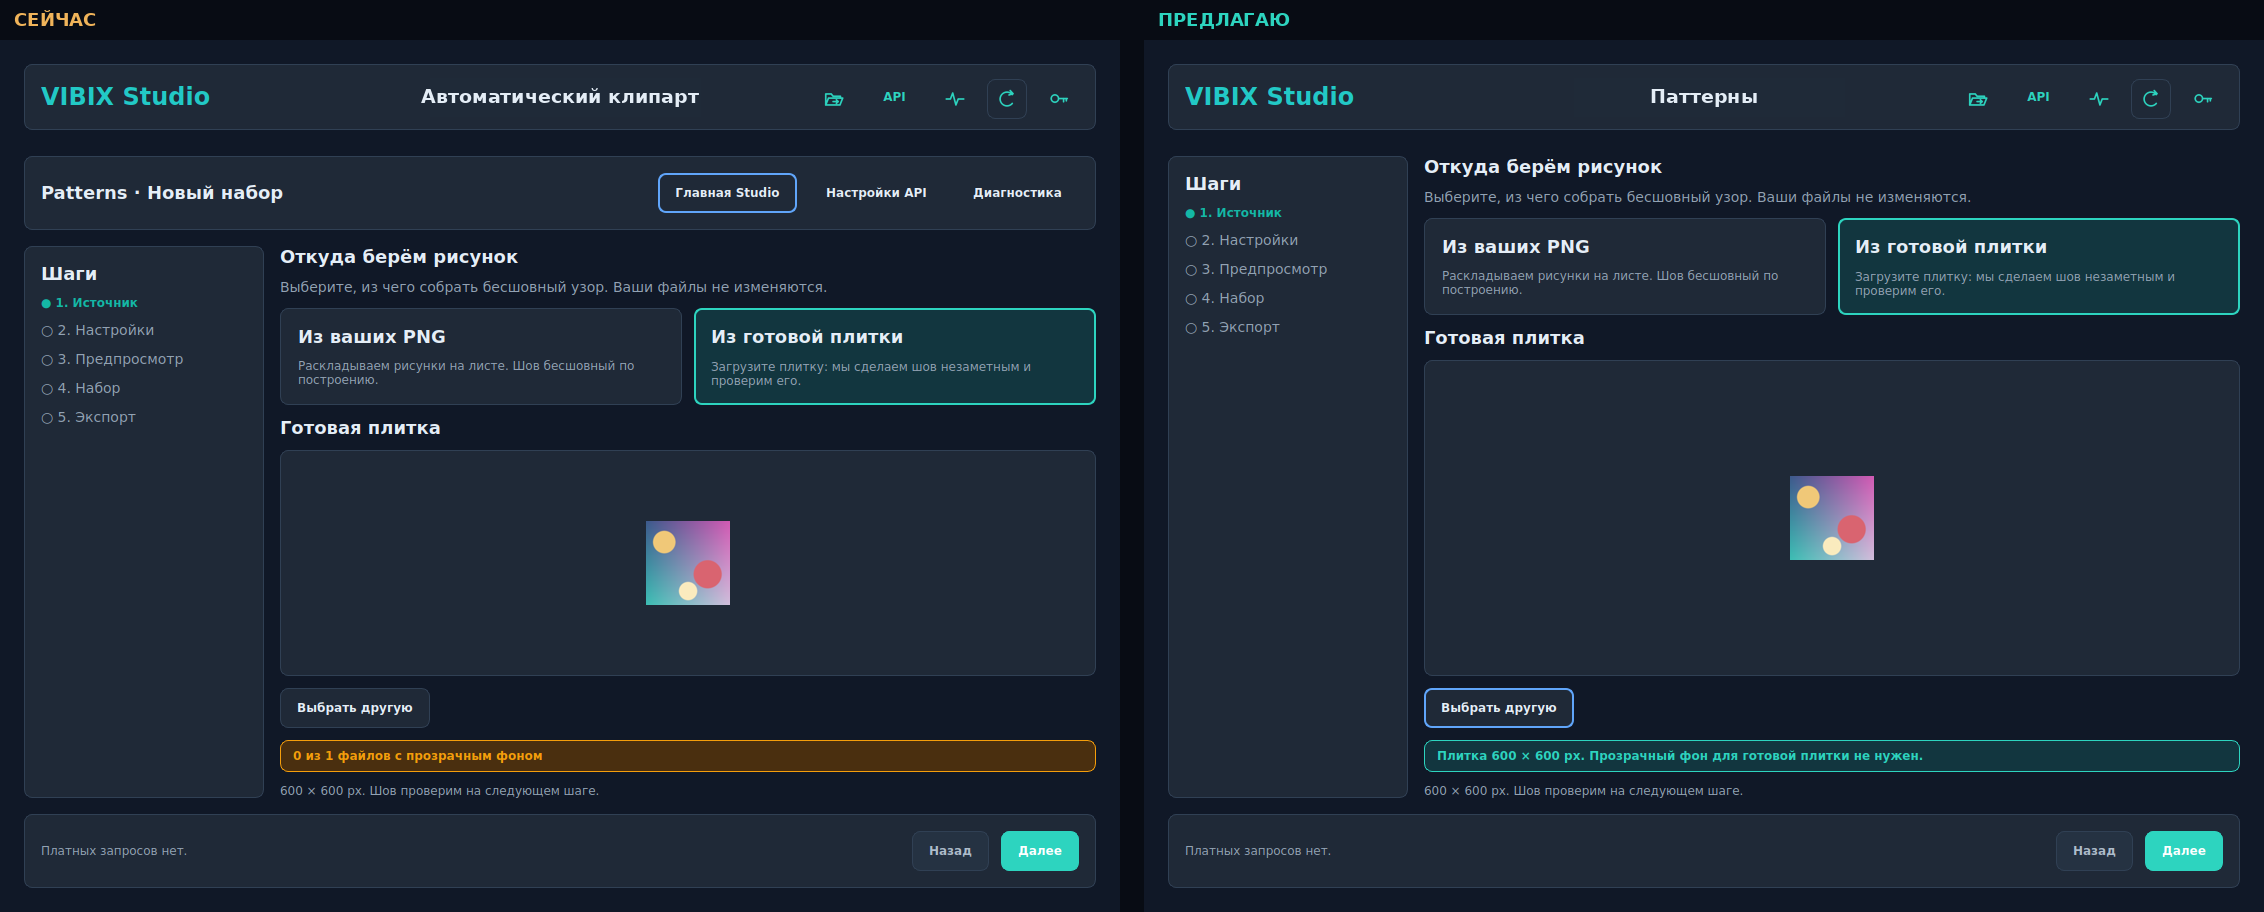
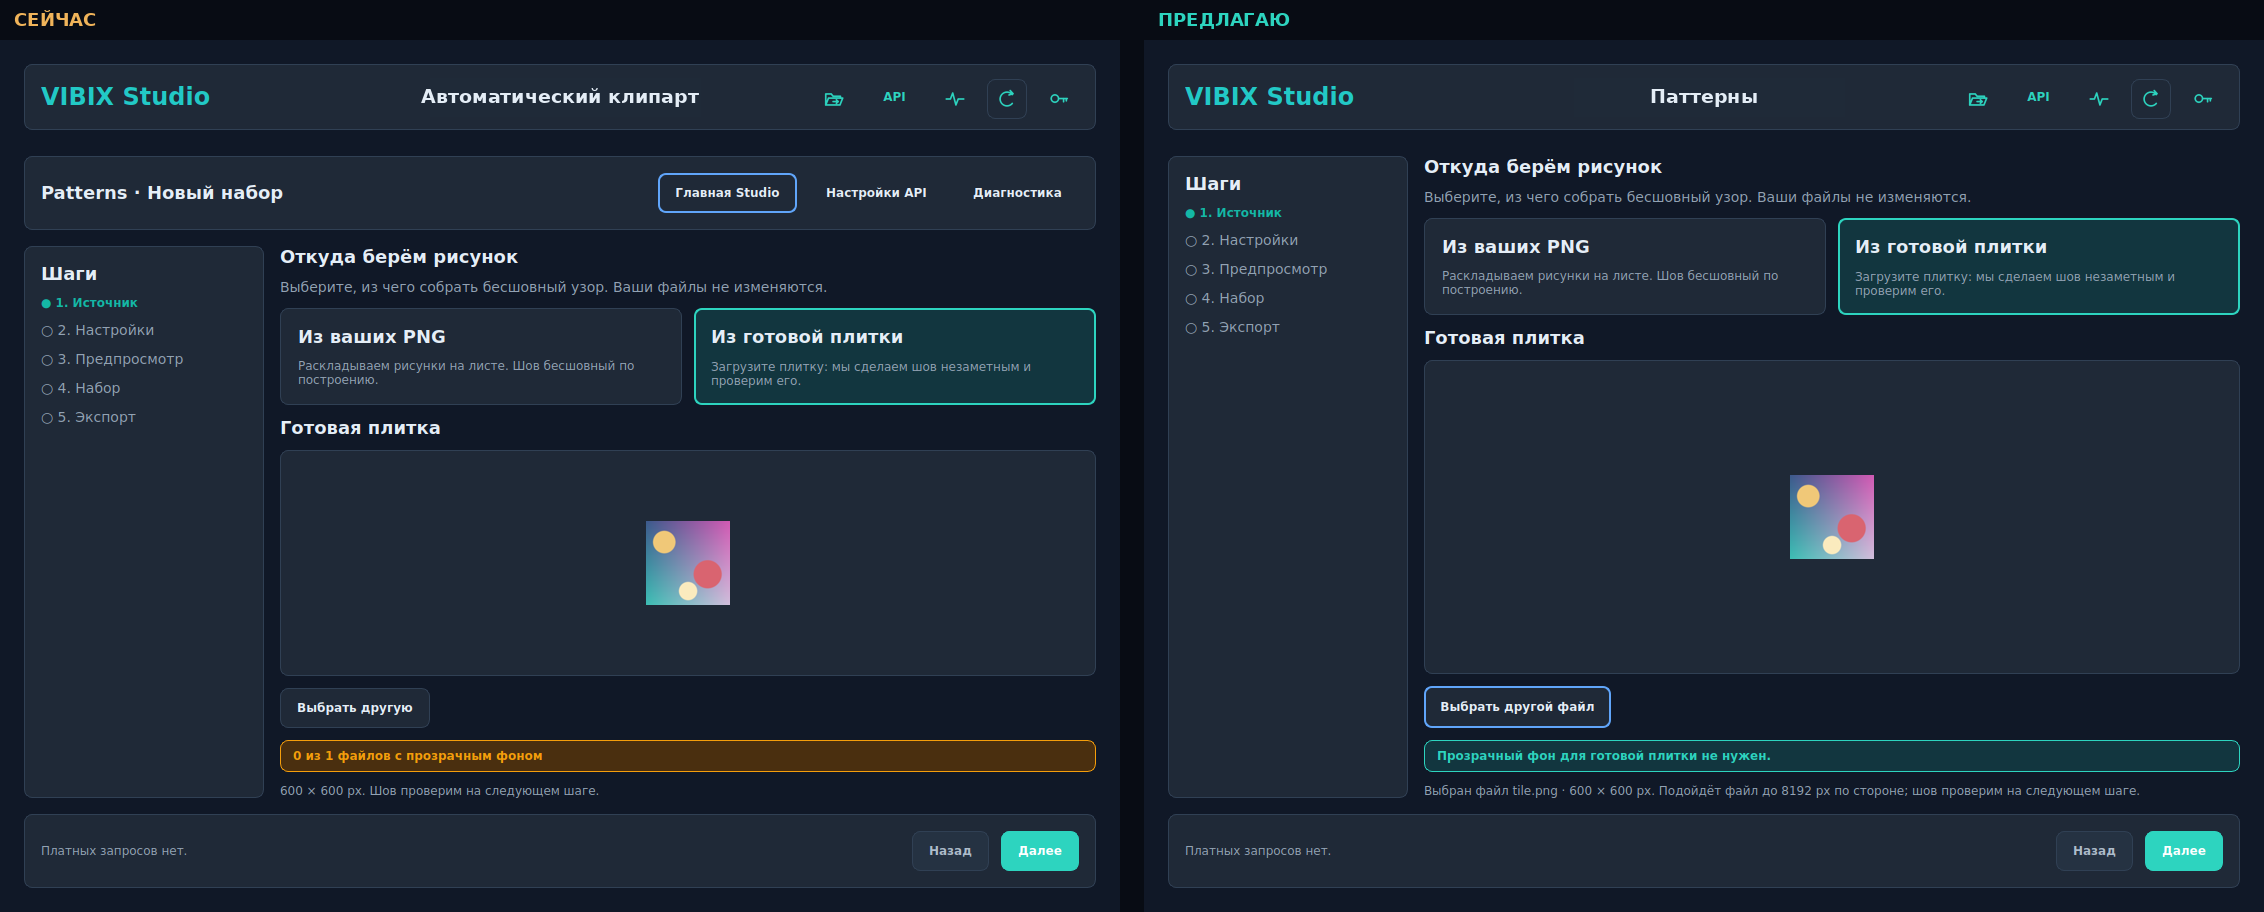
docs: Patterns tile step — «Выбрать файл», file size shown once as information (owner edit) [skip ci]

Changed region(s): [[0.6184, 0.7368, 0.9276, 0.8904]]

diff --git a/docs/ui/3.2/patterns-owner-remarks/render_mockups.py b/docs/ui/3.2/patterns-owner-remarks/render_mockups.py
@@ -227,8 +227,12 @@ with tempfile.TemporaryDirectory(prefix="vibix-patterns-mock-") as temp:
     for i in range(tile_page.checks.count()):
         w = tile_page.checks.itemAt(i).widget()
         if w is not None and "прозрачным" in w.text():
-            w.setText("Плитка 600 × 600 px. Прозрачный фон для готовой плитки не нужен.")
+            w.setText("Прозрачный фон для готовой плитки не нужен.")
             _set_state(w, "ok")
+        elif w is not None and "Шов проверим" in w.text():
+            # The size is only information about the chosen file, not a requirement.
+            w.setText("Выбран файл tile.png · 600 × 600 px. Подойдёт файл до 8192 px по стороне; шов проверим на следующем шаге.")
+    tile_page.pick_tile.setText("Выбрать другой файл")   # owner 2026-10-23: a file is chosen, not a «плитка»
     prop = with_header(grab(tile_page), "Паттерны")
     pair(cur, prop, "P4-tile-source-texts.png")
     tile_page.host.close()

diff --git a/docs/ui/3.2/patterns-owner-remarks/README.md b/docs/ui/3.2/patterns-owner-remarks/README.md
@@ -18,6 +18,9 @@
 - **П4** `P4-tile-source-texts.png`: для готовой плитки нет ложного «0 из 1 файлов с прозрачным фоном» — вместо него
   «Плитка W × H px. Прозрачный фон для готовой плитки не нужен.» Кнопки «Добавить PNG / Добавить папку» в режиме
   «Из ваших PNG» в коде есть (см. 02 в patterns-module-proposal/actual) — проверю на сборке, при каком шаге они пропадали.
+  Правка владельца 2026-10-23: кнопка «Выбрать файл» / «Выбрать другой файл» (а не «плитку»). Размер (в макете
+  600 × 600) — только сведения о выбранном файле, не требование; показывается один раз: «Выбран файл … · W × H px.
+  Подойдёт файл до 8192 px по стороне; шов проверим на следующем шаге».
 - **П7** `P7-manual-placement.png`: на шаге 3 ручная расстановка: «Двигать / Поворот / Размер / Убрать» и «Вернуть
   автоматическую расстановку»; рамка с ручками у выбранного элемента, кружок — поворот; элемент у края появляется и с
   другой стороны листа (бесшовность сохраняется). Ручные правки сохраняются в проекте; «Пересобрать» их не трогает
